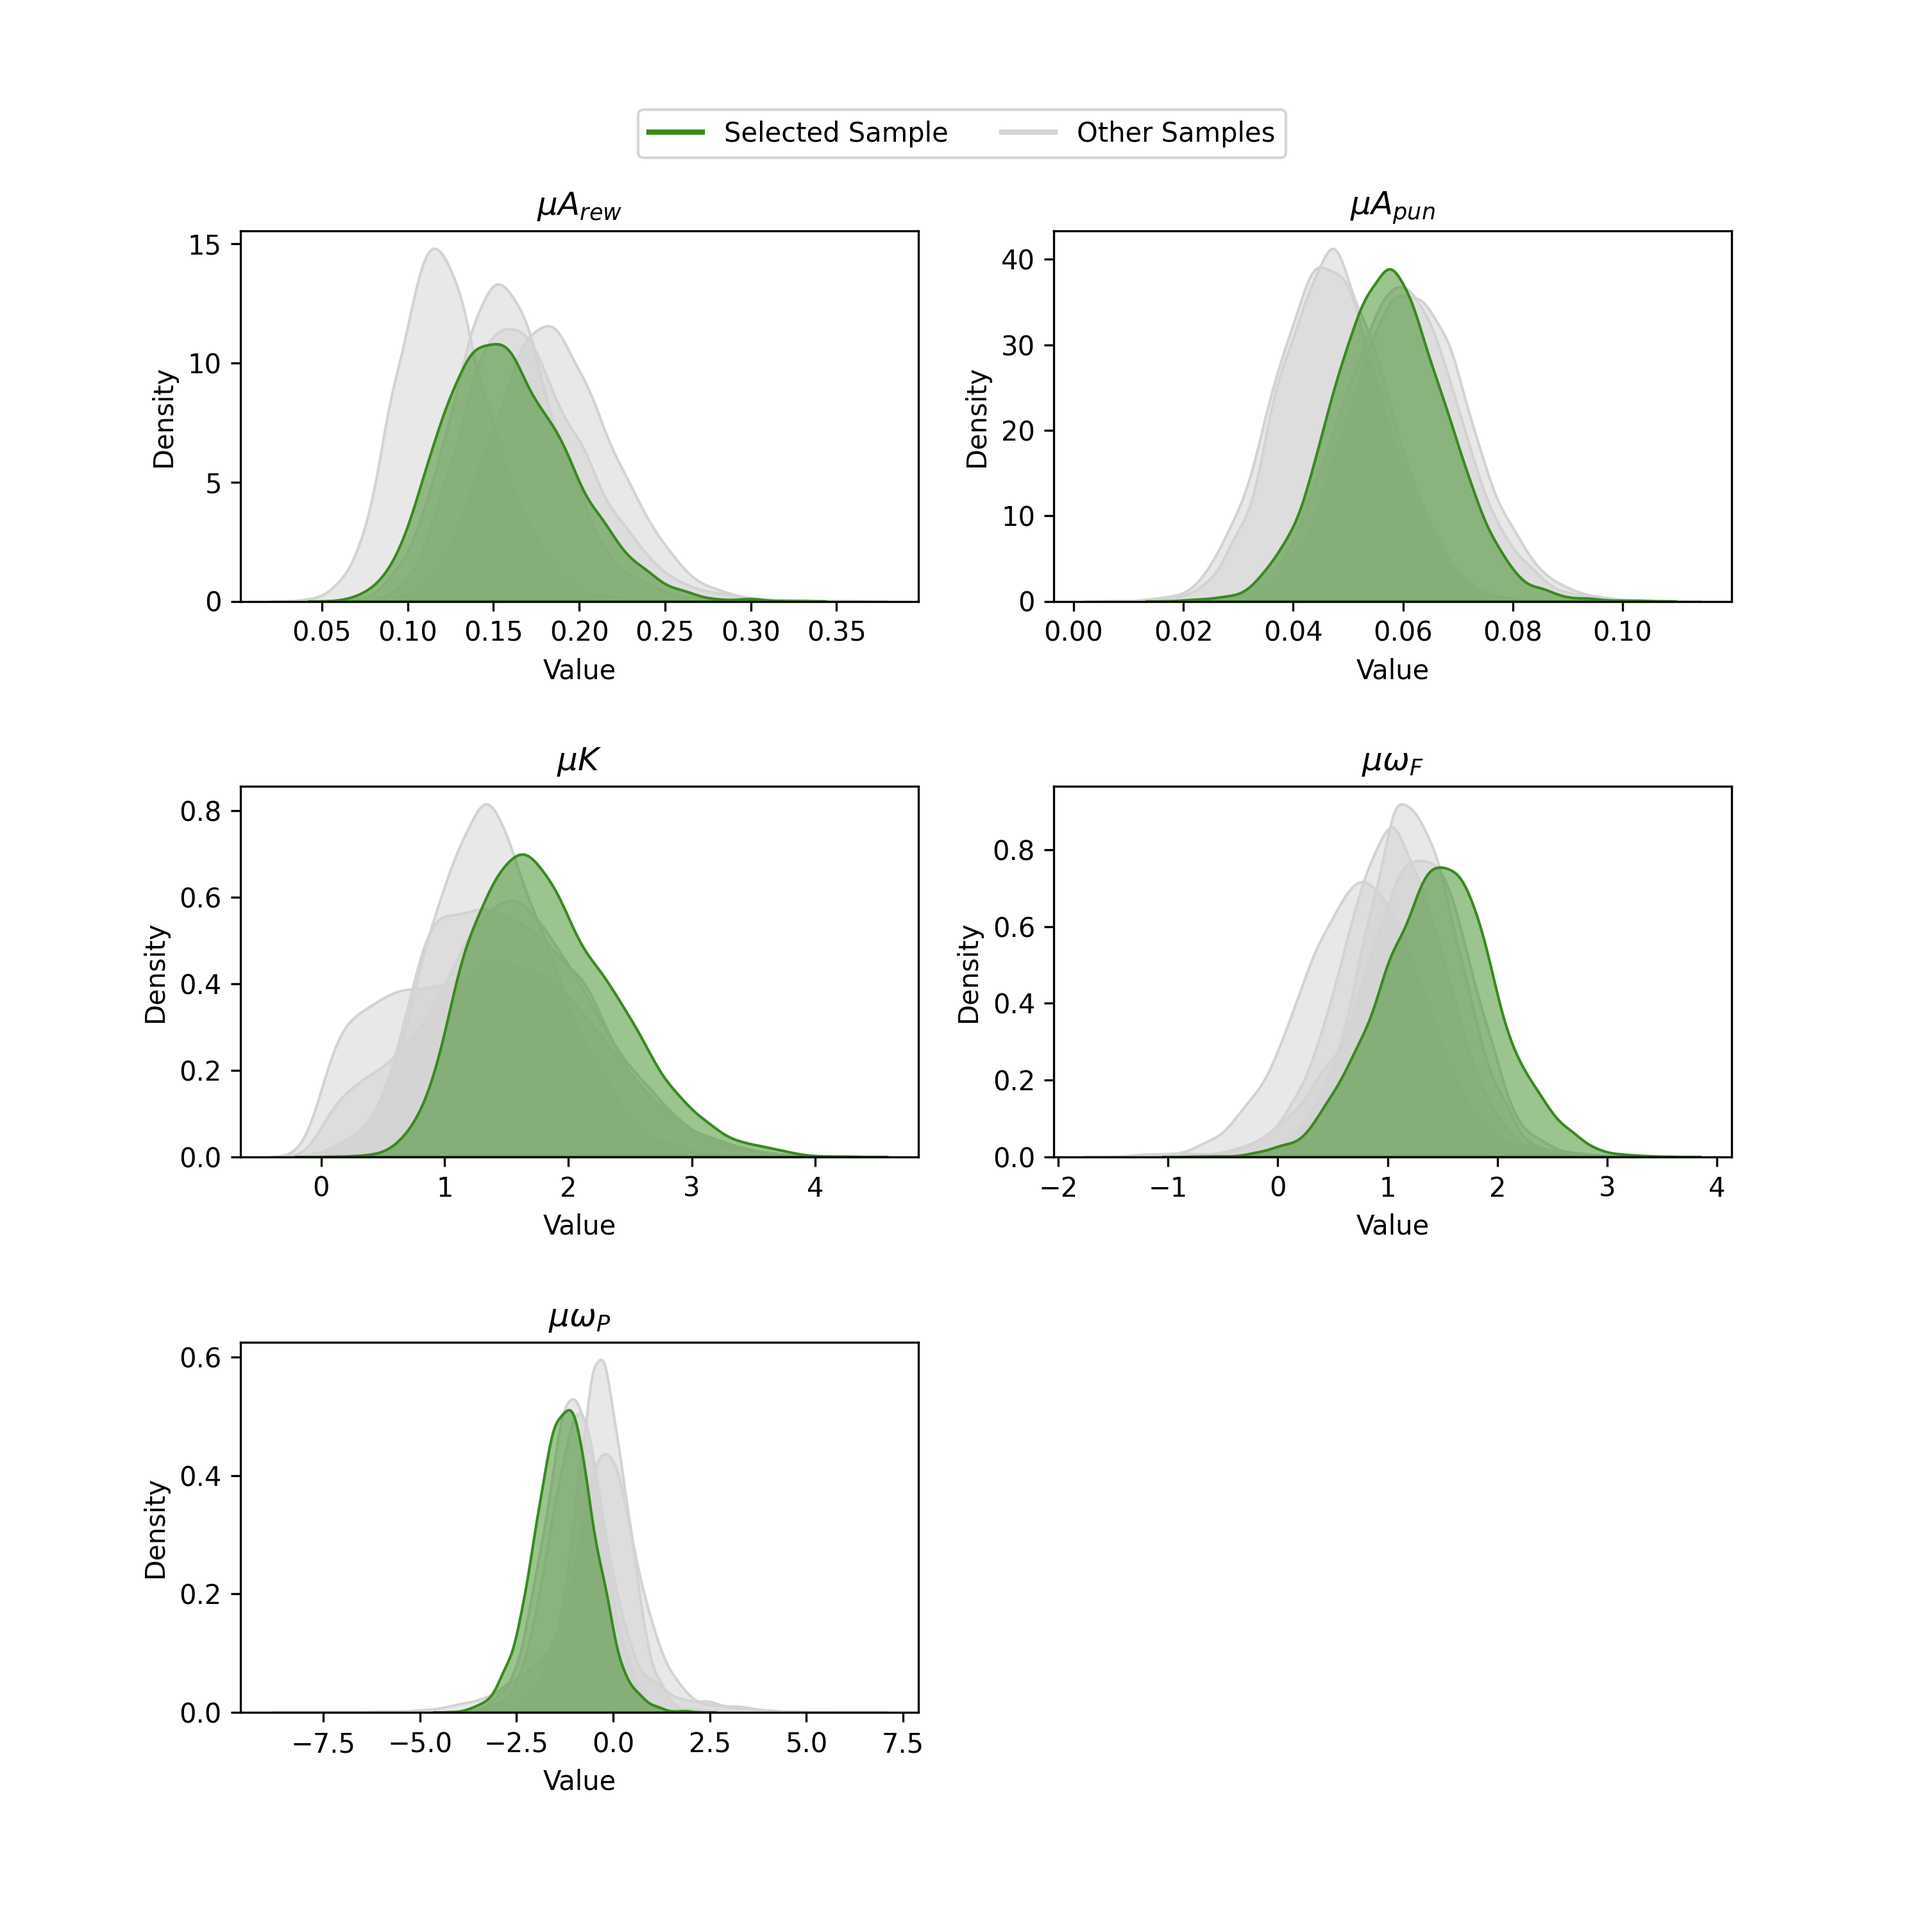
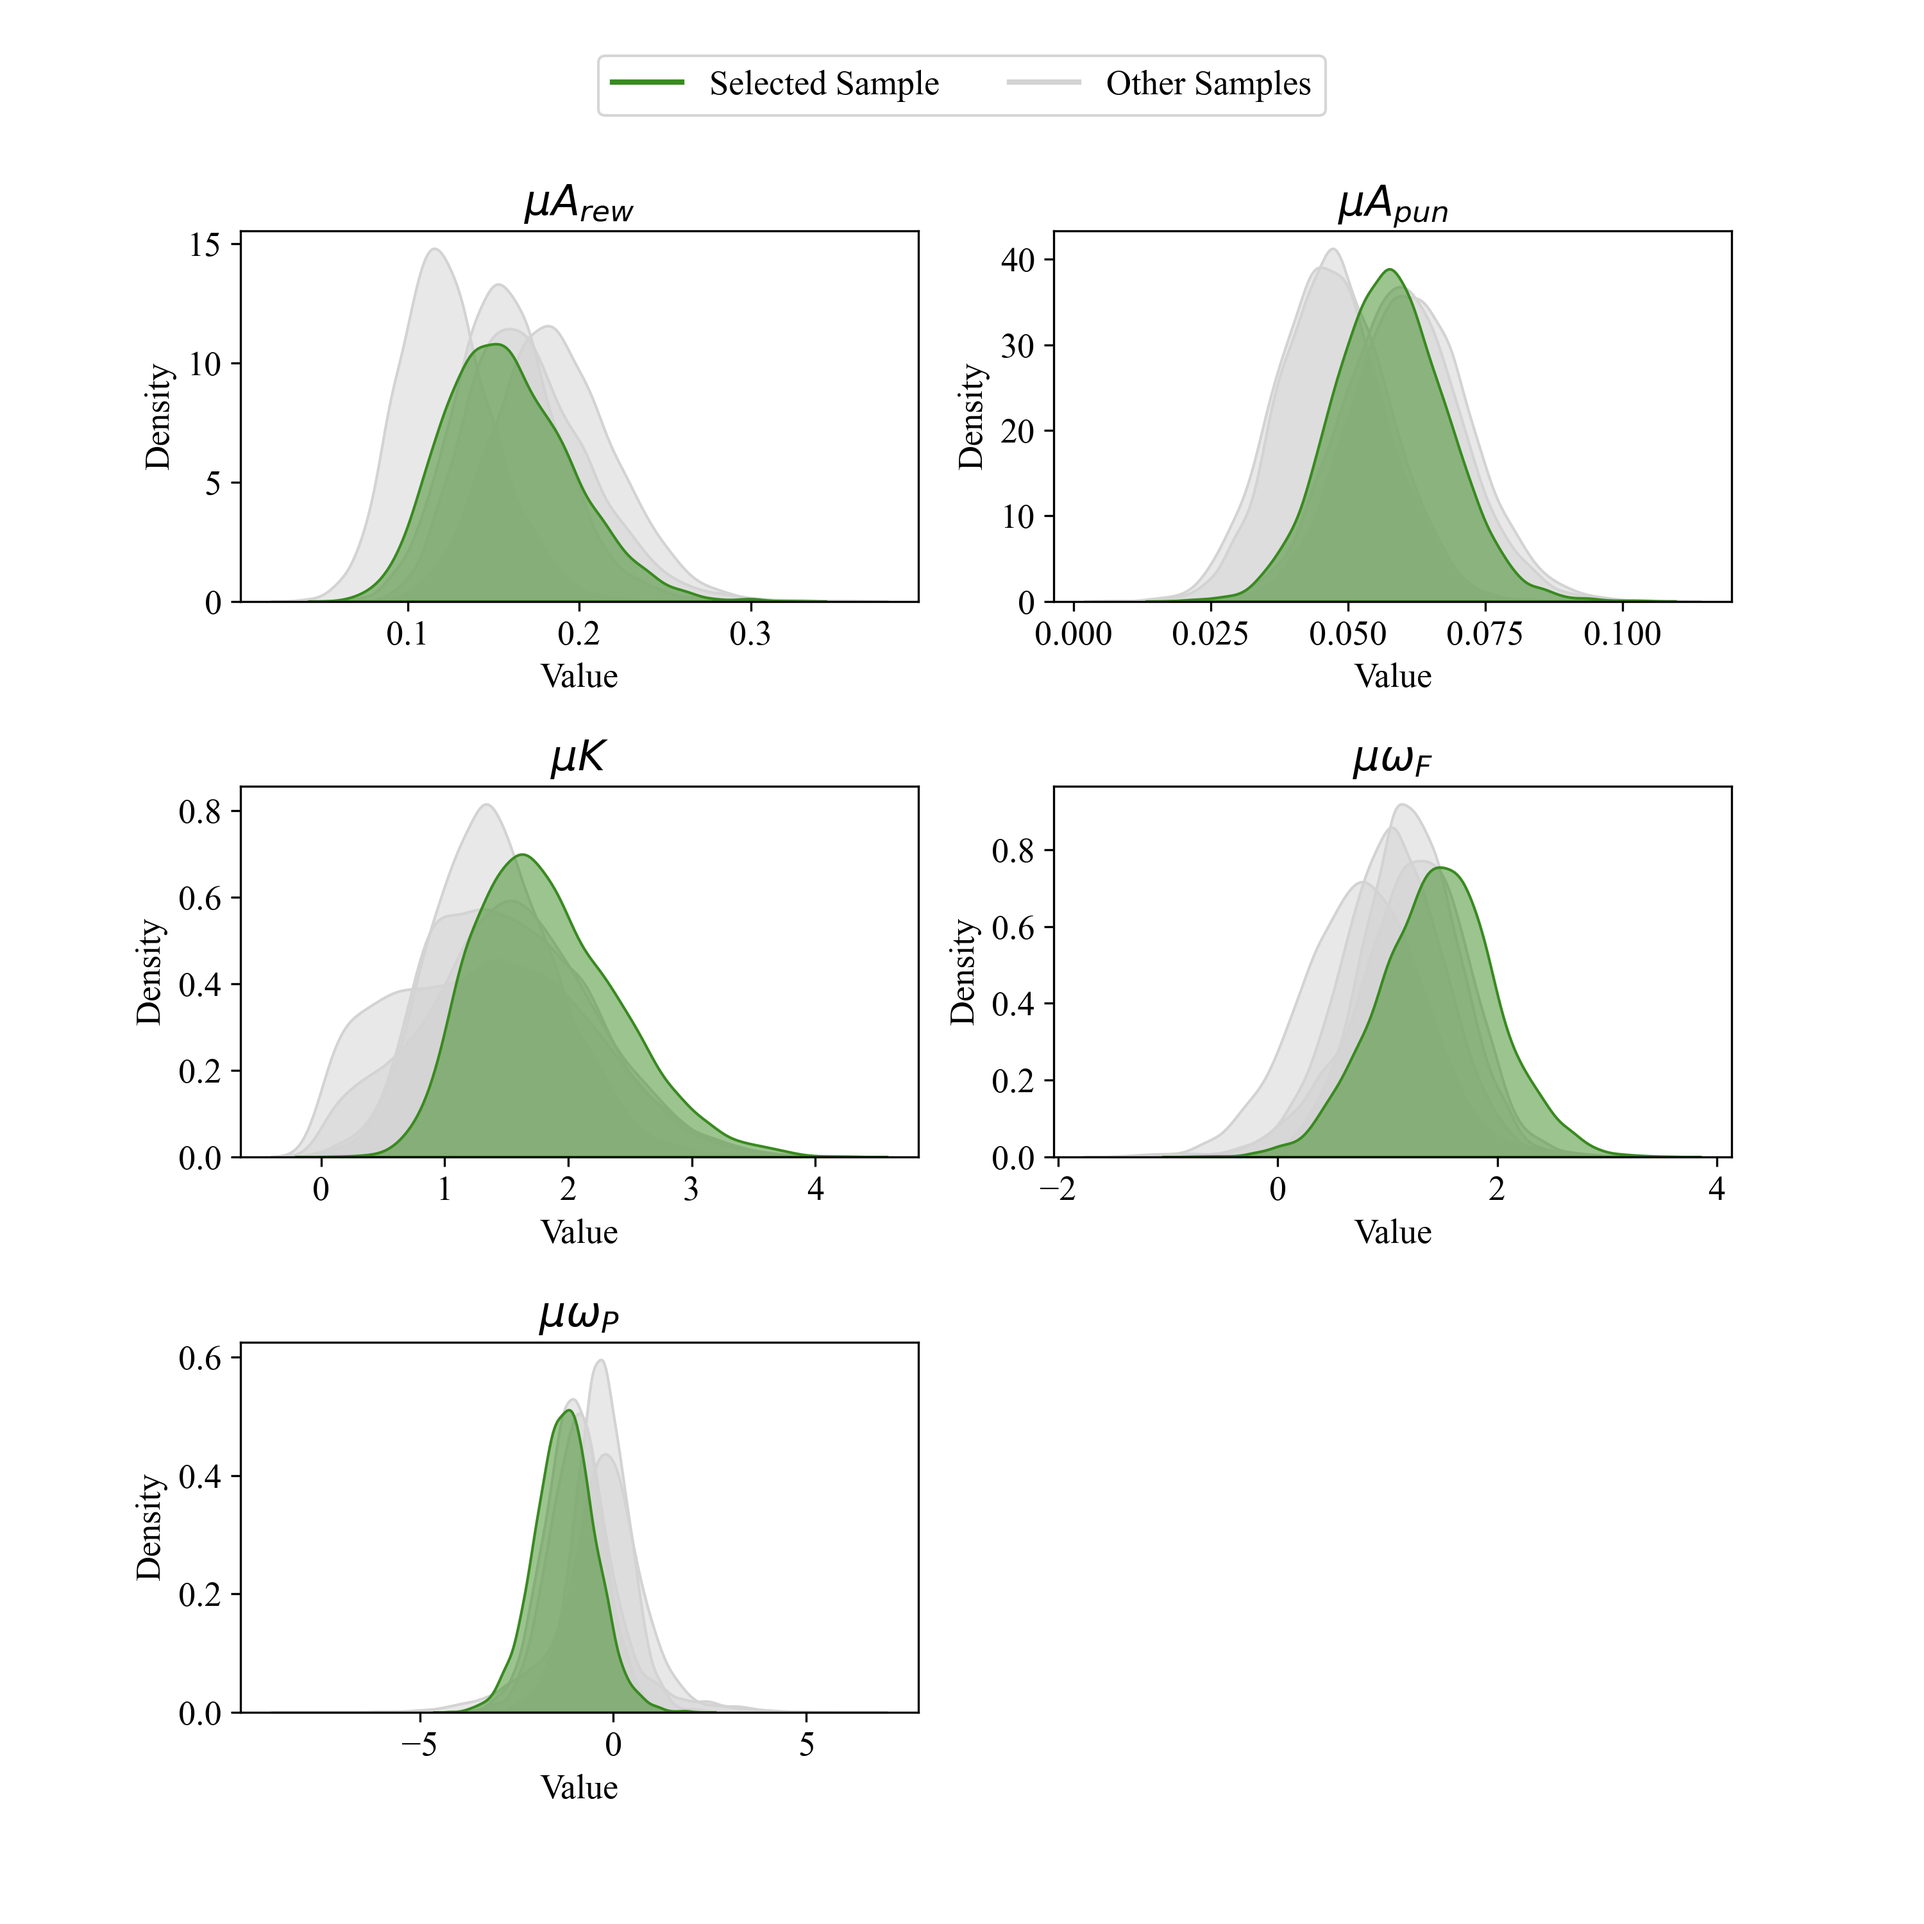
updated font to times

diff --git a/src/estimation/plot_estimates.py b/src/estimation/plot_estimates.py
@@ -5,6 +5,15 @@ import pandas as pd
 import seaborn as sns
 from scipy.stats import truncnorm, gamma, binom
 import matplotlib.lines as mlines
+from matplotlib.font_manager import FontManager
+
+def set_font():
+    available_fonts = set(f.name for f in FontManager().ttflist)
+    if 'Times New Roman' in available_fonts:
+        # use times new roman if available
+        plt.rcParams['font.family'] = 'Times New Roman'
+        # set font size to 13
+        plt.rcParams.update({'font.size': 13})
 
 def chance_level(n, alpha = 0.001, p = 0.5):
     k = binom.ppf(1-alpha, n, p)
@@ -54,7 +63,7 @@ def plot_posteriors(hc_data, gpt_data, colors=["#398A20", "#20398A"],
     labels = ["Humans", "ChatGPT"]
     if show_priors:
         labels.append("Prior")
-    fig.legend(labels, loc='upper center', ncol=len(labels), bbox_to_anchor=(0.5, 0.95), fancybox=True)
+    fig.legend(labels, loc='upper center', ncol=len(labels), bbox_to_anchor=(0.5, 0.98), fancybox=True)
 
     # Hide the last subplot if the number of parameters is less than total subplots
     if len(parameters) < total_subplots:
@@ -116,7 +125,7 @@ def plot_hc_posteriors(main_hc_sample, other_hc_samples,
         legend_handles.append(prior_line)
 
     # Create a single legend for the entire figure
-    fig.legend(handles=legend_handles, loc='upper center', ncol=3, bbox_to_anchor=(0.5, 0.95), fancybox=True)
+    fig.legend(handles=legend_handles, loc='upper center', ncol=3, bbox_to_anchor=(0.5, 0.98), fancybox=True)
 
     if save_path is not None:
         plt.savefig(save_path, dpi=300)
@@ -192,6 +201,9 @@ def main():
     # load parameter estimation data
     hc_data_params = pd.read_csv(data_path / "param_estimated_ahn_hc.csv")
     gpt_data_params = pd.read_csv(data_path / "param_estimated_gpt.csv")
+
+    # set global font to times if available
+    set_font()
 
     # plot posteriors
     plot_posteriors(hc_data_params, gpt_data_params, save_path=path.parents[2] / "src" / "estimation" / "plots" / "posterior_compare_w_priors", show_priors=True)
